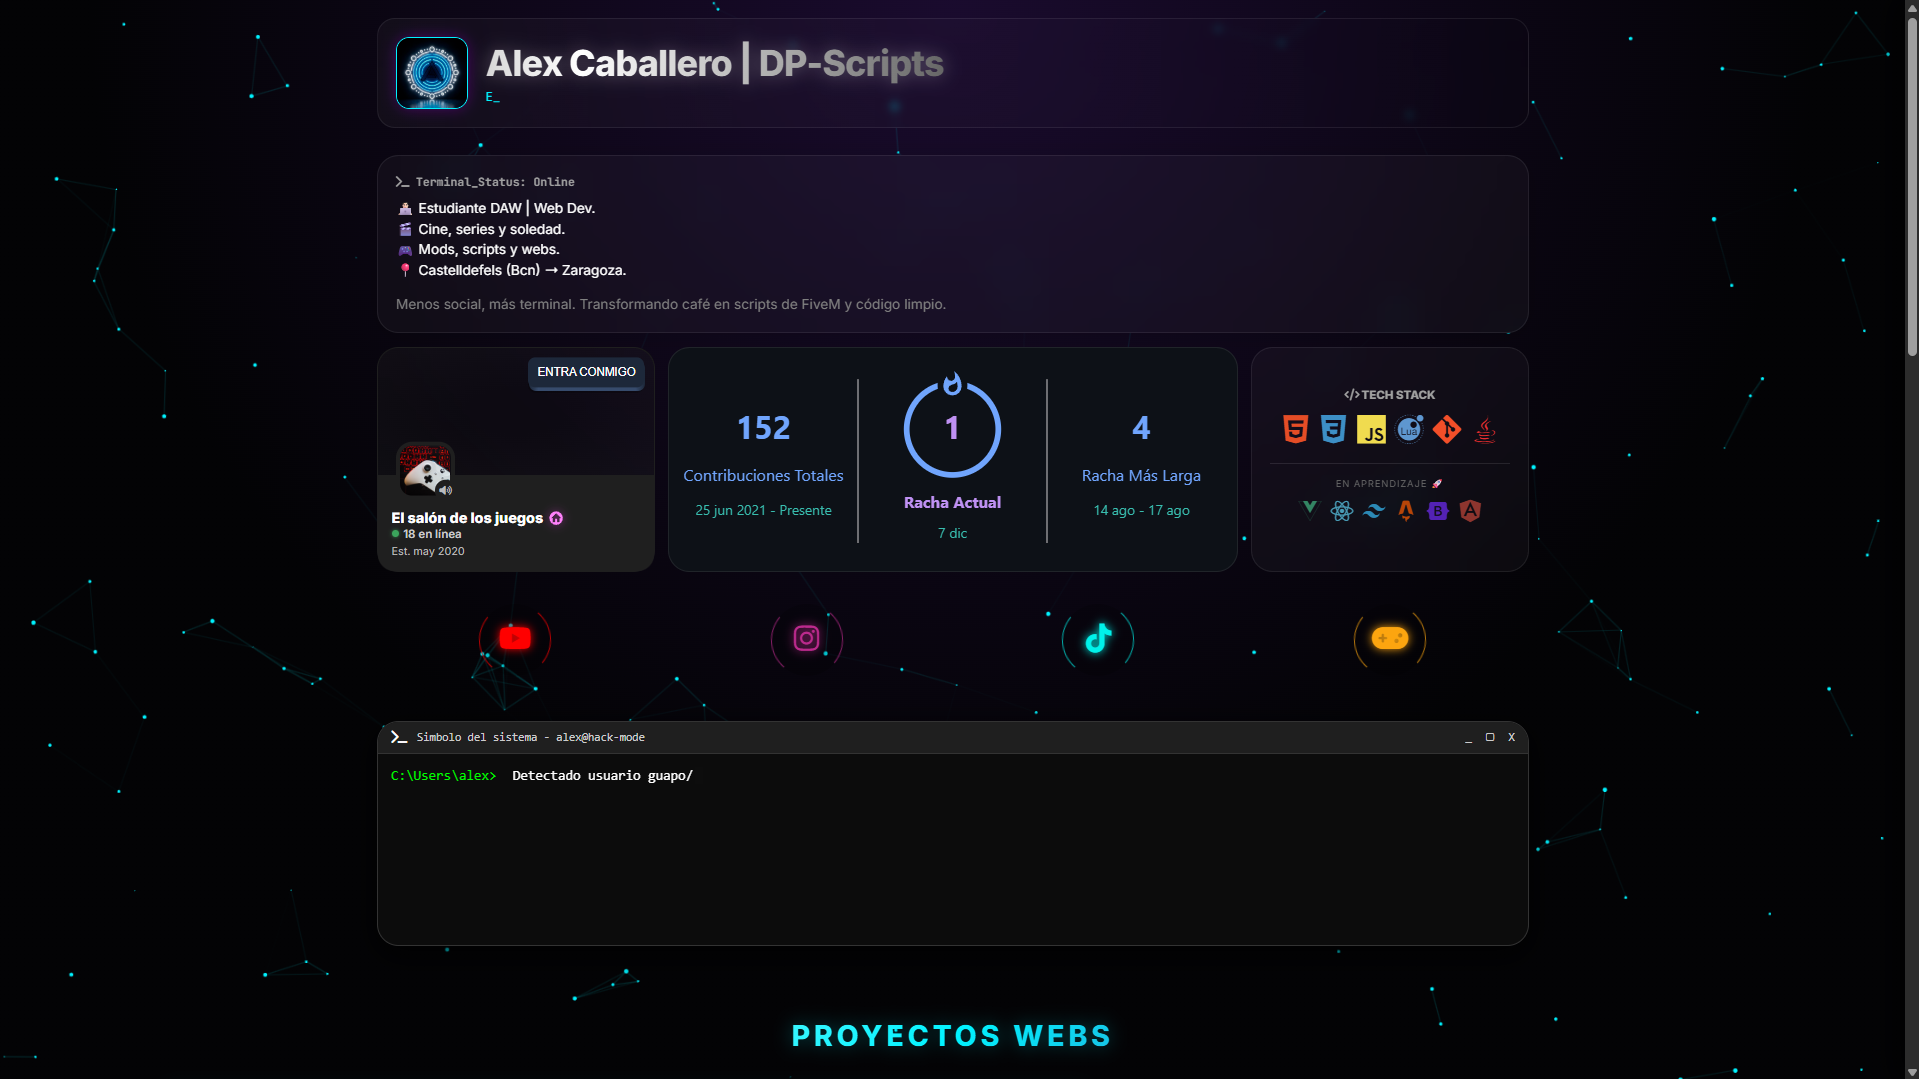
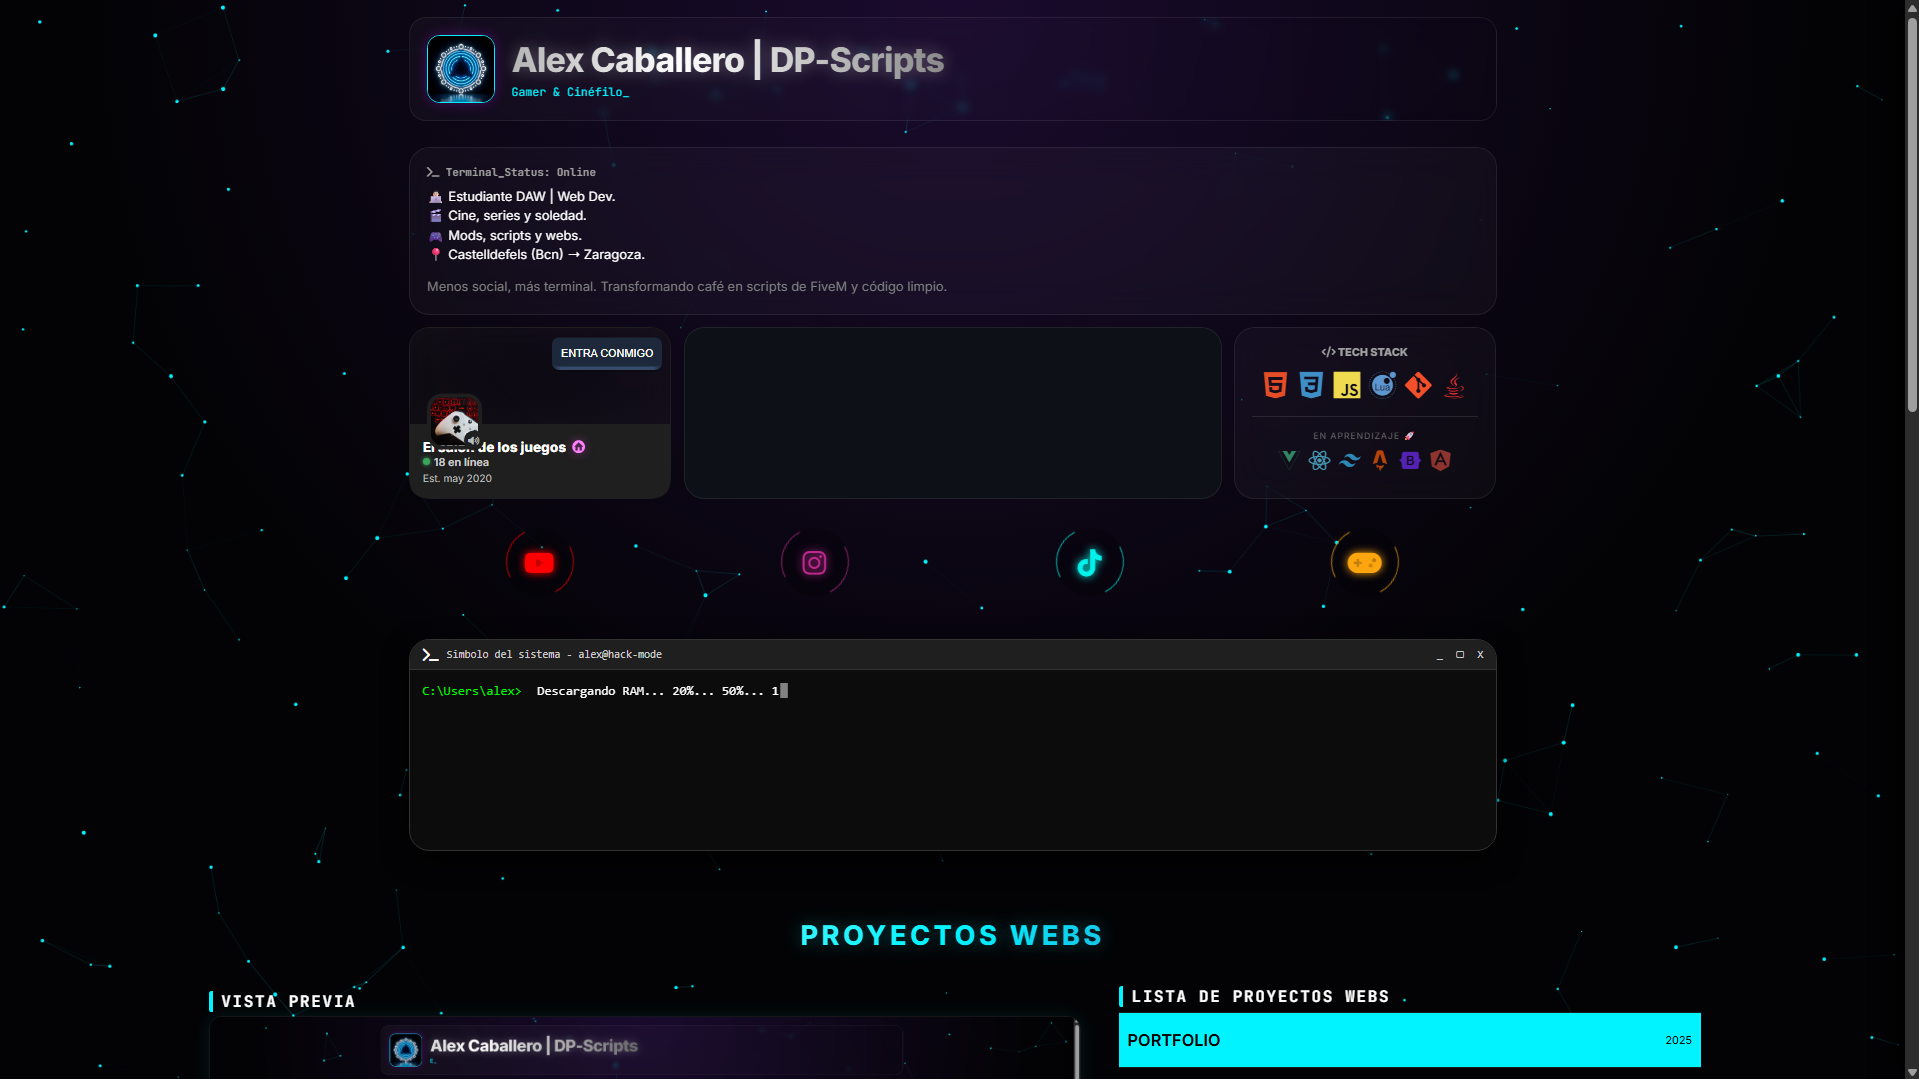
Actualización de diseño y sección de proyectos

diff --git a/index.html b/index.html
@@ -93,7 +93,7 @@
             </div>
 
             <a href="https://github.com/DonPlastico" target="_blank" class="card card-wide github-card">
-                <img src="https://github-readme-streak-stats.herokuapp.com/?user=DonPlastico&theme=tokyonight&hide_border=true&background=00000000&locale=es"
+                <img src="https://github-readme-stats.vercel.app/api?username=DonPlastico&theme=tokyonight&hide_border=true&background=00000000&locale=es"
                     alt="GitHub Streak" loading="lazy">
             </a>
 

diff --git a/style.css b/style.css
@@ -1139,7 +1139,6 @@ footer {
 
 #web-preview-img {
     width: 100%;
-    height: 100%;
     object-fit: cover;
     transition: transform 0.5s ease;
 }
